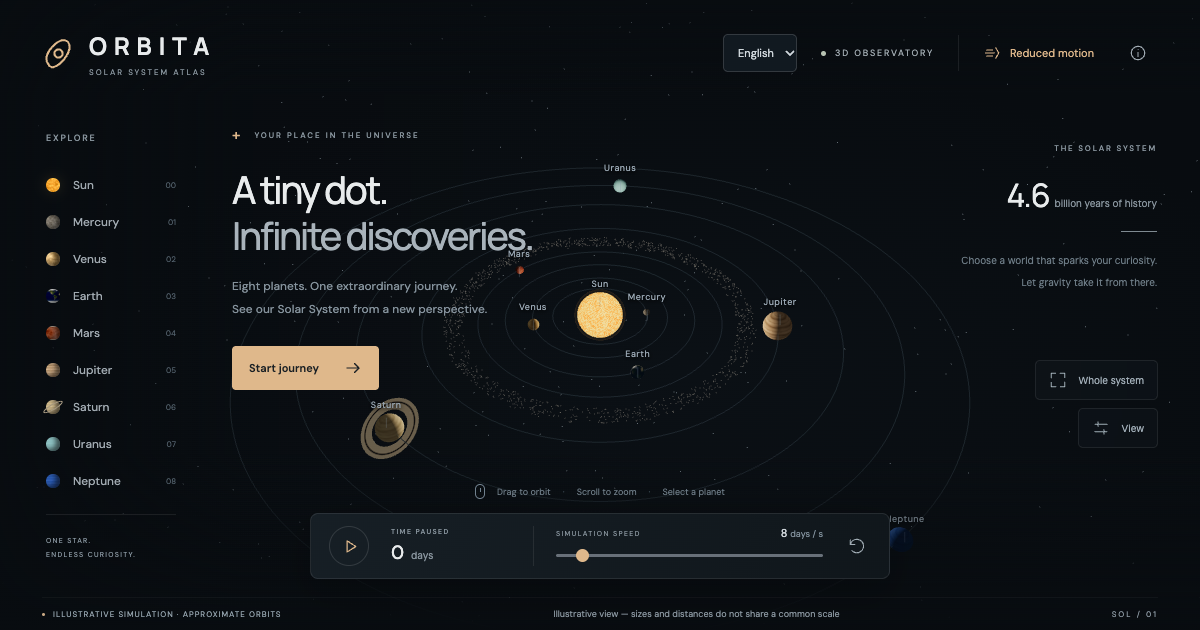
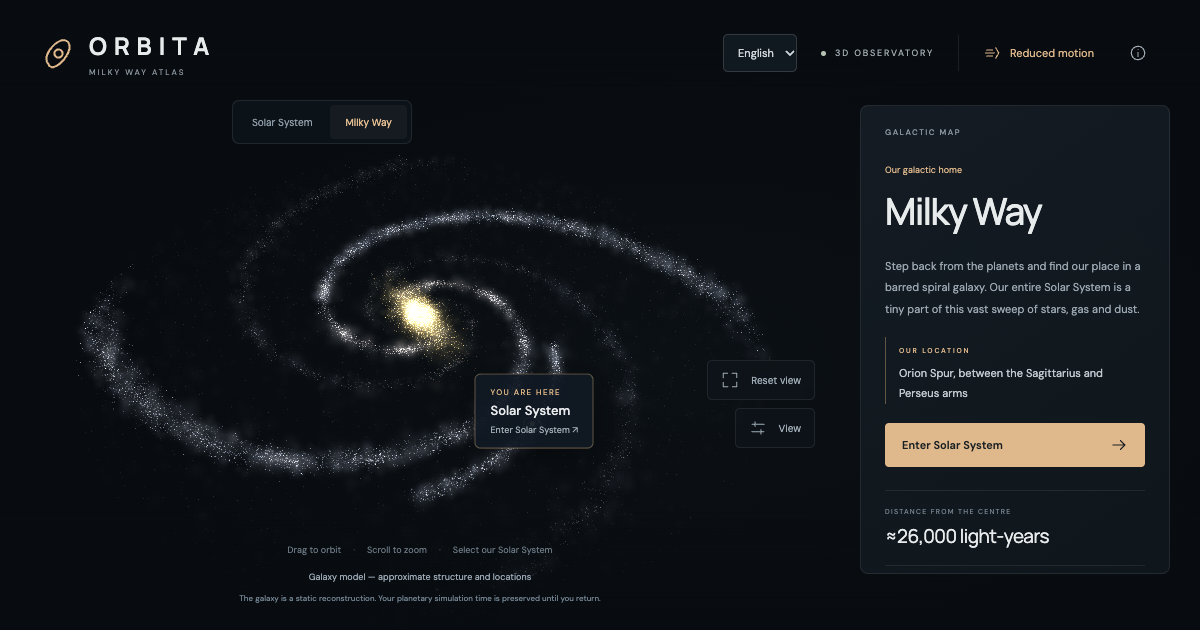
docs: record galaxy benchmarks and refresh sharing preview

diff --git a/src/seo.ts b/src/seo.ts
@@ -8,7 +8,7 @@ export const seo = {
       "Explore the Solar System and Milky Way in 3D. Fly between planets, find our place in the galaxy and discover facts from NASA.",
     locale: "en_GB",
     imageAlt:
-      "Orbita interactive 3D Solar System with the Sun, eight planets and their orbits.",
+      "The Milky Way in Orbita’s 3D atlas, with our Solar System marked in the Orion Spur.",
   },
   pl: {
     title: "Orbita — Układ Słoneczny i Droga Mleczna 3D",
@@ -16,7 +16,7 @@ export const seo = {
       "Odkrywaj Układ Słoneczny i Drogę Mleczną w 3D. Podróżuj między planetami, znajdź nasze miejsce w galaktyce i poznawaj fakty ze źródeł NASA.",
     locale: "pl_PL",
     imageAlt:
-      "Interaktywny Układ Słoneczny 3D w Orbicie: Słońce, osiem planet i ich orbity.",
+      "Droga Mleczna w atlasie 3D Orbita, z zaznaczonym położeniem Układu Słonecznego w Ostrodze Oriona.",
   },
 } as const;
 export function applySeo(language: keyof typeof seo) {

diff --git a/docs/VERIFICATION.md b/docs/VERIFICATION.md
@@ -150,3 +150,55 @@ Podstawa decyzji: dokumentacja Google Search Central:
 [tytuły](https://developers.google.com/search/docs/appearance/title-link),
 [nazwa witryny](https://developers.google.com/search/docs/appearance/site-names),
 [JavaScript SEO](https://developers.google.com/search/docs/crawling-indexing/javascript/javascript-seo-basics).
+
+## Widok Drogi Mlecznej — 29 października 2026
+
+Model proceduralny i teksty NASA opisuje [GALAXY.md](GALAXY.md). Galaktyka
+współdzieli Canvas i kamerę z planetami. Zmiana skali kurczy/rozszerza układ
+planet i wygasza/odsłania galaktykę. Gwiazdy są statyczne; powrót zachowuje czas,
+tempo i pauzę symulacji planet. Języki EN/PL, mapa zastępcza 2D i ograniczenie
+ruchu obejmują oba poziomy. Moduł galaktyki jest ładowany na żądanie.
+
+Sprawdzanie typów, lint i build przeszły. Vitest/RTL: **14/14**. Pełny Playwright
+na produkcyjnym podglądzie: **58/58**, plus dwa scenariusze dotykowe pomijane
+wyłącznie na desktopie, przechodzące w projekcie mobilnym. Nowe scenariusze
+obejmują tożsamość Canvas przy zmianie skali, zachowanie czasu i ustawień,
+przerwanie lotu, szybkie zmiany celu, klawiaturę, reduced motion, tłumaczenia,
+rzeczywiste liczby punktów przy zmianie jakości, etykietę położenia i atlas 2D.
+Dodatkowo przechwycono początkowy moduł 3D w sieci i wybrano galaktykę przed
+jego wczytaniem — interfejs i scena wracają do poprawnego stanu.
+
+Kontrola obrazów wykryła skopiowany przez Fiber uniform przezroczystości:
+wartość źródłowa wynosiła 1, a materiał pozostawał przy 0,0305. Naprawiono
+synchronizację rzeczywistego uniformu w pętli Fiber. Samo zliczanie draw calls
+nie wykryło takiego błędu; gotowy obraz obejrzano ponownie na natywnym GPU.
+
+### Pomiary galaktyki
+
+Izolowany pomiar `HEADED=1 node scripts/measure-galaxy.mjs`: Apple M2, 16 GB,
+macOS 27.0.1, Chromium 156.0.0.0, ANGLE Metal Renderer: Apple M2. Produkcyjny
+podgląd na localhost, bez throttlingu, nowe konteksty przeglądarki, DPR 1.
+Tryb Auto: wysoka jakość przy 1440×900, niska przy 390×844. Ten drugi wariant
+jest emulacją rozmiaru/dotyku na M2, **nie fizycznym telefonem**.
+
+| Scenariusz | 1440×900 FPS / P95 | 390×844 (emulacja) FPS / P95 |
+| --- | ---: | ---: |
+| Wejście do galaktyki (~1,69 s) | 60,43 / 18,5 ms | 60,40 / 18,6 ms |
+| Obracanie kamerą przez 5 s | 60,09 / 18,6 ms | 60,11 / 18,6 ms |
+| Powrót do planet (~1,66 s) | 60,25 / 18,7 ms | 60,25 / 18,6 ms |
+
+Mediana klatki 16,7 ms. Drobne wartości ponad 60 FPS wynikają z granic próbek.
+W spoczynku: **0 dodatkowych klatek przez 120 odświeżeń przeglądarki**, czas
+symulacji bez zmian. Galaktyka: **8 draw calls**, 904 trójkąty znaczników oraz
+38 600 / 13 100 punktów przy wysokiej / niskiej jakości. Mierzymy dostarczone
+klatki sceny podczas rzeczywistych zdarzeń myszy, nie wynik Lighthouse ani czas
+samego shadera. Interakcje na fizycznym telefonie i długotrwałe ograniczenie
+termiczne GPU pozostają niezmierzone.
+
+Pierwsza użyteczna scena planet: 496,8 ms / 498,0 ms oraz **775 309 B transferu**
+przed gotowością (HTML, JS, CSS, fonty, podstawowe mapy). Galaktyka jest dodatkowym
+modułem około 3,9 kB przed kompresją, doczytywanym po wybraniu; bufory gwiazd
+powstają lokalnie. To pojedyncze próby lokalne, nie pomiar łącza internetowego.
+
+Pomiar galaktyki wykonano przed końcową aktualizacją obrazu Open Graph i jego
+tekstów alternatywnych. Ten obraz nie jest pobierany podczas uruchamiania sceny.

diff --git a/docs/ASSETS.md b/docs/ASSETS.md
@@ -44,7 +44,9 @@ pełne teksty w `public/fonts/*-OFL.txt`. Fonty są serwowane lokalnie, bez Goog
 ## Obraz podglądu linku
 
 `public/og-image.png` (1200×630) to zrzut własnej aplikacji Orbita w angielskiej
-wersji, z zatrzymaną symulacją w dniu 0. Wykorzystuje opisane wyżej lokalne mapy
-planet i fonty; nie pobiera dodatkowych cudzych ilustracji. Służy jako obraz
-Open Graph / Twitter. Regeneracja: uruchom produkcyjny podgląd na porcie 4174,
-a następnie `node scripts/capture-social-preview.mjs`.
+wersji, przedstawiający proceduralną Drogę Mleczną i znacznik naszego Układu
+Słonecznego. Używa lokalnych fontów i oryginalnej chmury punktów; nie pobiera
+cudzych ilustracji ani katalogu gwiazd. Służy jako obraz Open Graph / Twitter.
+Regeneracja: uruchom produkcyjny podgląd na porcie 4174, a następnie
+`ORBITA_SOCIAL_MODE=galaxy node scripts/capture-social-preview.mjs`. Pominięcie
+zmiennej generuje wariant z planetami.
